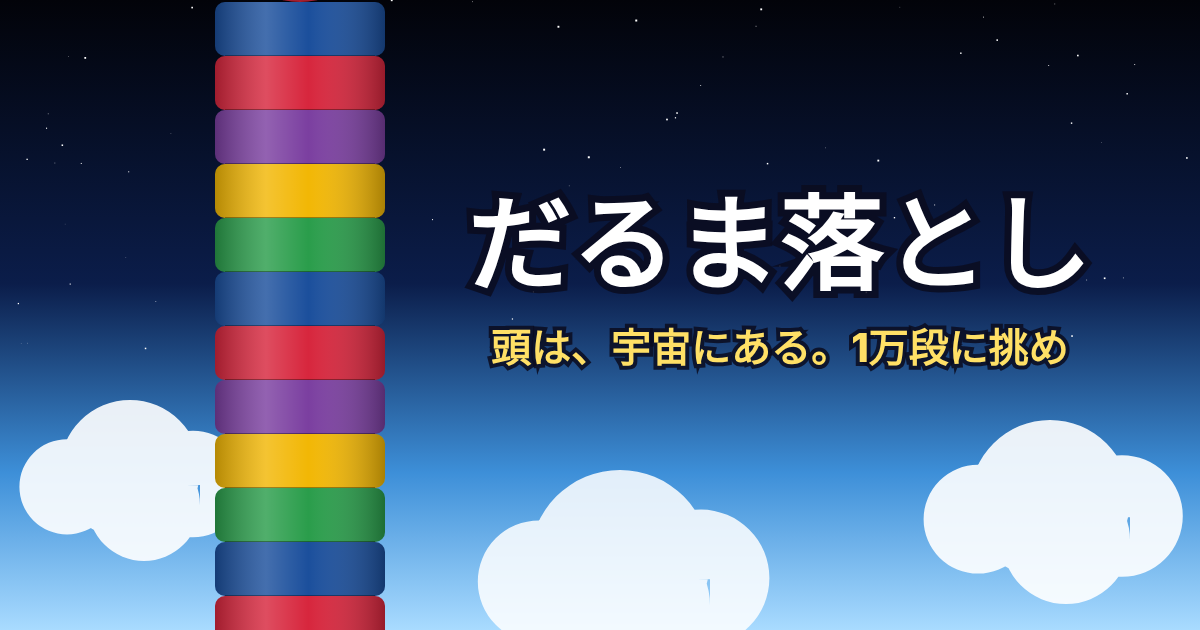
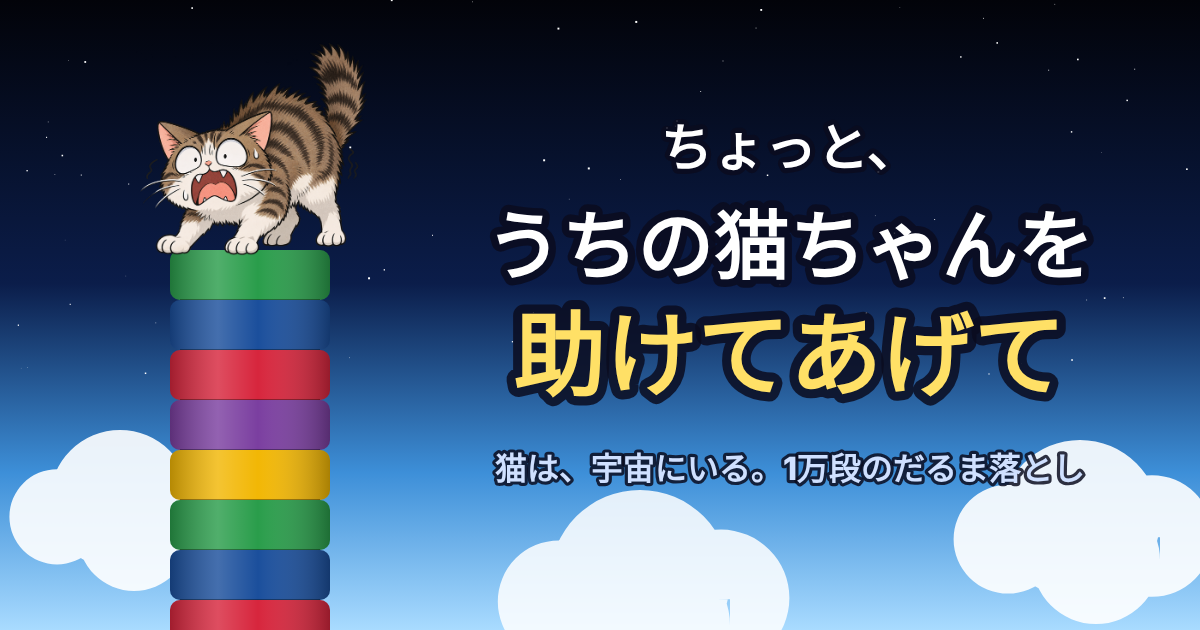
feat: rename game to ちょっと、うちの猫ちゃんを助けてあげて
Claude-Session: https://claude.ai/code/session_01U8PzaVf4AZGGWS2L4qUax4

diff --git a/index.html b/index.html
@@ -4,11 +4,11 @@
 <meta charset="utf-8">
 <meta name="viewport" content="width=device-width, initial-scale=1, maximum-scale=1, user-scalable=no">
 <meta name="theme-color" content="#05060f">
-<title>だるま落とし</title>
-<meta name="description" content="頭は、宇宙にある。1万段積み上がっただるまを、タイミングよく叩き落として登りつめろ。">
+<title>ちょっと、うちの猫ちゃんを助けてあげて</title>
+<meta name="description" content="猫は、宇宙にいる。1万段積み上がっただるまを、太鼓のリズムに合わせて叩き落とし、てっぺんの猫ちゃんを助けにいこう。">
 <meta property="og:type" content="website">
-<meta property="og:title" content="だるま落とし">
-<meta property="og:description" content="頭は、宇宙にある。1万段積み上がっただるまを、タイミングよく叩き落として登りつめろ。">
+<meta property="og:title" content="ちょっと、うちの猫ちゃんを助けてあげて">
+<meta property="og:description" content="猫は、宇宙にいる。1万段積み上がっただるまを、太鼓のリズムに合わせて叩き落とし、てっぺんの猫ちゃんを助けにいこう。">
 <meta property="og:url" content="https://nagashinocat.github.io/daruma-otoshi/">
 <meta property="og:image" content="https://nagashinocat.github.io/daruma-otoshi/ogp.png">
 <meta name="twitter:card" content="summary_large_image">

diff --git a/src/opening.js b/src/opening.js
@@ -127,11 +127,17 @@ export function createOpening({ onDone, canSkip }) {
         ctx.textAlign = 'center';
         ctx.textBaseline = 'middle';
         ctx.fillStyle = '#fff';
-        ctx.font = `900 ${Math.min(L.w * 0.12, 54)}px ${FONT}`;
-        ctx.fillText('だるま落とし', L.cx, L.h * 0.2);
-        ctx.font = `700 ${Math.min(L.w * 0.045, 18)}px ${FONT}`;
+        const u = Math.min(L.w / 390, 1.3);
+        ctx.font = `800 ${26 * u}px ${FONT}`;
+        ctx.fillText('ちょっと、', L.cx, L.h * 0.11);
+        ctx.font = `900 ${36 * u}px ${FONT}`;
+        ctx.fillText('うちの猫ちゃんを', L.cx, L.h * 0.11 + 44 * u);
+        ctx.font = `900 ${44 * u}px ${FONT}`;
+        ctx.fillStyle = '#ffe066';
+        ctx.fillText('助けてあげて', L.cx, L.h * 0.11 + 96 * u);
+        ctx.font = `700 ${17 * u}px ${FONT}`;
         ctx.fillStyle = '#cfe0ff';
-        ctx.fillText('頭は、宇宙にある。', L.cx, L.h * 0.2 + 44);
+        ctx.fillText('猫は、宇宙にいる。', L.cx, L.h * 0.11 + 140 * u);
         ctx.restore();
       }
       if (canSkip) {

diff --git a/src/shareCard.js b/src/shareCard.js
@@ -3,7 +3,7 @@ import { sceneForStep, stepsToSpace } from './scenery.js';
 import { FONT, blockColor, drawBlock, drawCat, SKY_COLORS, drawStars, drawCloud, roundRect } from './art.js';
 
 const fmt = (n) => n.toLocaleString('ja-JP');
-const TITLE = 'だるま落とし';
+const TITLE = ['ちょっと、', 'うちの猫ちゃんを', '助けてあげて'];
 
 // 1080×1080 の結果カード
 export function drawShareCard(step, isBest) {
@@ -48,10 +48,12 @@ export function drawShareCard(step, isBest) {
     ctx.fillStyle = color;
     ctx.fillText(s, tx, y);
   };
-  txt(TITLE, 120, 64);
+  txt(TITLE[0], 80, 38, '#fff', 800);
+  txt(TITLE[1], 136, 50);
+  txt(TITLE[2], 200, 58, '#ffe066');
   if (top) {
     txt('宇宙到達!', 430, 110, '#ffe066');
-    txt('伝説のだるま落とし名人', 560, 44);
+    txt('猫ちゃん救出成功!', 560, 48);
   } else {
     txt(`${fmt(step)}段`, 420, step >= 1000 ? 130 : 150);
     txt('まで到達!', 540, 56);

diff --git a/src/share.js b/src/share.js
@@ -1,11 +1,12 @@
 import { TOTAL_STEPS } from './config.js';
 
 const fmt = (n) => n.toLocaleString('ja-JP');
+const GAME_TITLE = 'ちょっと、うちの猫ちゃんを助けてあげて';
 
 export function shareText(step) {
   return step >= TOTAL_STEPS
-    ? `だるま落としで宇宙まで到達!(${fmt(step)}段)`
-    : `だるま落としで${fmt(step)}段まで到達!`;
+    ? `「${GAME_TITLE}」で宇宙まで到達!猫ちゃんを助けた!(${fmt(step)}段)`
+    : `「${GAME_TITLE}」で${fmt(step)}段まで到達!猫ちゃんまであと${fmt(TOTAL_STEPS - step)}段`;
 }
 
 function pageUrl() {

diff --git a/src/render.js b/src/render.js
@@ -479,7 +479,7 @@ export function createRenderer() {
     if (top) {
       drawCat(ctx, L.cx, L.h * 0.31, Math.min(L.w * 0.55, 240), 'happy');
       text(ctx, '宇宙到達!', L.cx, L.h * 0.36, 40, '#ffe066');
-      text(ctx, '伝説のだるま落とし名人', L.cx, L.h * 0.42, 20, '#fff');
+      text(ctx, '猫ちゃん救出成功!', L.cx, L.h * 0.42, 22, '#fff');
     } else {
       drawCat(ctx, L.cx, L.h * 0.2, Math.min(L.w * 0.34, 140), 'scared', now);
       text(ctx, 'ガラガラ…', L.cx, L.h * 0.23, 22, '#ffd0d0');

diff --git a/README.md b/README.md
@@ -1,6 +1,6 @@
-# だるま落とし
+# ちょっと、うちの猫ちゃんを助けてあげて
 
-頭は、宇宙にある。約1万段積み上がっただるまを、ゲージのタイミングに合わせて叩き落とし、どこまで登れるかに挑むスマホ向けブラウザゲーム。
+猫は、宇宙にいる。約1万段積み上がっただるまを、ゲージのタイミングに合わせて叩き落とし、てっぺんの猫ちゃんを助けにいくスマホ向けブラウザゲーム。
 
 ## 遊び方
 
